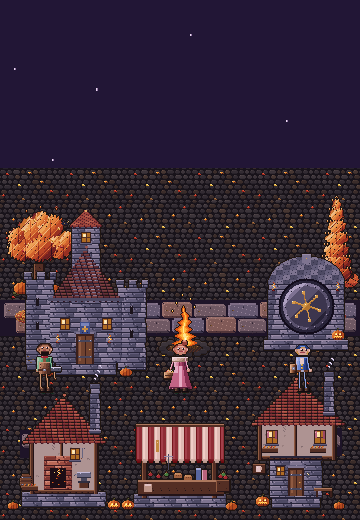
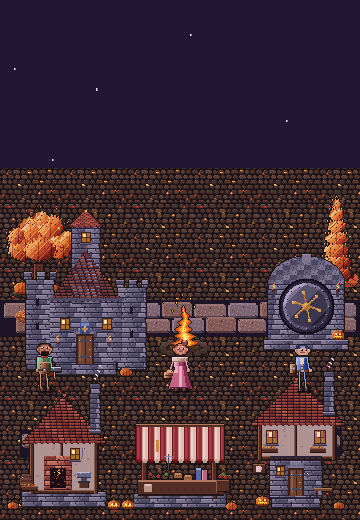
art(town): warmer dusk cobbles, theme tokens for ambience, README; regenerate town goldens

diff --git a/lib/ui/shell/home/town_ambience.dart b/lib/ui/shell/home/town_ambience.dart
@@ -2,6 +2,8 @@ import 'dart:math' as math;
 
 import 'package:flutter/material.dart';
 
+import '../../game_theme.dart';
+
 /// Autumn dusk life over the town square: falling leaves, a campfire glow
 /// that breathes, and low mist. One painter, a dozen rects and three
 /// gradients a frame. The ticker stops when motion is off, the route is
@@ -16,11 +18,11 @@ abstract final class TownAmbience {
   static const leafCount = 14;
 
   static const leafColors = <Color>[
-    Color(0xFFC43A24),
-    Color(0xFFEC8E30),
-    Color(0xFFF0C450),
-    Color(0xFF92221E),
-    Color(0xFFDE6A2C),
+    GameTheme.townLeafRed,
+    GameTheme.townLeafOrange,
+    GameTheme.townLeafGold,
+    GameTheme.townLeafMaroon,
+    GameTheme.townLeafRust,
   ];
 }
 
@@ -168,8 +170,8 @@ class _AmbiencePainter extends CustomPainter {
       canvas.drawOval(
         rect,
         Paint()
-          ..shader = const RadialGradient(
-            colors: [Color(0x40CFC0E6), Color(0x00CFC0E6)],
+          ..shader = RadialGradient(
+            colors: [GameTheme.townMist, GameTheme.townMist.withAlpha(0)],
           ).createShader(rect),
       );
     }
@@ -181,21 +183,24 @@ class _AmbiencePainter extends CustomPainter {
         0.5 +
         0.3 * math.sin(t * math.pi * 2 * 9) +
         0.2 * math.sin(t * math.pi * 2 * 23);
-    final r = fire.width * (1.5 + 0.12 * breath);
+    final r = fire.width * (2.6 + 0.15 * breath);
     final center = Offset(fire.center.dx, fire.top + fire.height * 0.62);
     final rect = Rect.fromCircle(center: center, radius: r);
-    final a = (0x30 + (0x18 * breath)).round().clamp(0, 255);
+    final a = (0x2C + (0x14 * breath)).round().clamp(0, 255);
     canvas.drawCircle(
       center,
       r,
       Paint()
         ..blendMode = BlendMode.screen
         ..shader = RadialGradient(
-          colors: [Color.fromARGB(a, 255, 150, 60), const Color(0x00FF9630)],
+          colors: [
+            GameTheme.townFireGlow.withAlpha(a),
+            GameTheme.townFireGlow.withAlpha(0),
+          ],
         ).createShader(rect),
     );
     // Two sparks climb out of the flame.
-    final spark = Paint()..color = const Color(0xFFFFD27A);
+    final spark = Paint()..color = GameTheme.townSpark;
     for (var k = 0; k < 2; k++) {
       final u = (t * (11 + k * 4) + k * 0.5) % 1.0;
       final sx = center.dx + math.sin((u + k) * math.pi * 3) * 6 + (k * 8 - 4);
@@ -211,7 +216,7 @@ class _AmbiencePainter extends CustomPainter {
 
   void _leaves(Canvas canvas, Size size, double t) {
     final paint = Paint();
-    final shade = Paint()..color = const Color(0x66200E18);
+    final shade = Paint()..color = GameTheme.townLeafShade;
     for (var i = 0; i < TownAmbience.leafCount; i++) {
       final leaf = townLeafAt(i, t, size);
       final w = leaf.wide ? 4.0 : 2.0;

diff --git a/lib/ui/game_theme.dart b/lib/ui/game_theme.dart
@@ -18,6 +18,17 @@ abstract final class GameTheme {
   static const Color panel = Color(0xFF182028);
   static const Color panelInset = Color(0xFF0F141C);
 
+  // Town autumn dusk ambience (TownAmbienceLayer).
+  static const Color townLeafRed = Color(0xFFC43A24);
+  static const Color townLeafOrange = Color(0xFFEC8E30);
+  static const Color townLeafGold = Color(0xFFF0C450);
+  static const Color townLeafMaroon = Color(0xFF92221E);
+  static const Color townLeafRust = Color(0xFFDE6A2C);
+  static const Color townLeafShade = Color(0x66200E18);
+  static const Color townMist = Color(0x40CFC0E6);
+  static const Color townFireGlow = Color(0xFFFF9630);
+  static const Color townSpark = Color(0xFFFFD27A);
+
   /// Loot border colors (bag slots, gear rows).
   static const Color rarityCommon = Color(0xFF5A5040);
   static const Color rarityUncommon = Color(0xFF70C050);

diff --git a/tool/generate_town_art.py b/tool/generate_town_art.py
@@ -1255,15 +1255,16 @@ def generate_sheet() -> Image.Image:
 
 README = """# Town assets
 
-Owned Idle Party pixel art for the out-of-dungeon town.
+Owned Idle Party pixel art for the out-of-dungeon town. Target look:
+autumn dusk (`docs/art/TOWN_AUTUMN_DUSK.md`, owner pick B).
 
 ## Provenance / license
 
 | Field | Value |
 |-------|--------|
 | Author | Idle Party (this repository) |
-| Tool | `tool/generate_town_art.py` |
-| Method | Hand-placed pixel materials (stone courses, tile rows, cloth folds, chibi townsfolk). No foreign packs. |
+| Tool | `tool/generate_town_art.py` + `tool/town_autumn_art.py` + `tool/town_life_art.py` |
+| Method | Hand-placed pixel materials (stone courses, tile rows, cloth folds, leaves, pumpkins, chibi townsfolk). No foreign packs. |
 | External packs | None |
 | License | Same as the rest of `assets/custom/` — original game art |
 
@@ -1271,6 +1272,11 @@ Three painted facade tiers (timber / plaster or ashlar / banners). AL10
 pennants and AL20 lanterns are owned pixel strips. Townsfolk frames share
 one sheet. `TownFolkSheet` in Dart uses the same 96×112 cells and
 draws them beside the party with nearest-neighbor.
+
+Every sprite except the sky, the square, and the UI plates goes through
+`town_autumn_art.dusk_grade`: a mild violet shade that leaves windows,
+fire, and jack-o-lantern faces lit. Falling leaves, the campfire glow and
+low mist are painted live by `TownAmbienceLayer` (Dart), not baked.
 
 Deterministic: no RNG. Regenerate:
 
@@ -1283,10 +1289,11 @@ python3 tool/generate_town_art.py
 | Rule | Choice |
 |------|--------|
 | Ink (32, 22, 18), 1 px contour | Same warm ink as the heroes |
-| Light | Upper-left, in clusters on each stone, tile, and fold |
-| Ground | Soft lawn, 480×960, seamless. Cobbles and flowers sit on the paths |
-| Roofs | Individual tiles. Guild slate, houses terracotta, market a folded awning |
-| Windows | Amber glass, wood mullions |
+| Light | Upper-left on materials; warm point lights (windows, fire, lanterns) |
+| Sky | Purple to ember bands, far skyline pinned to the square's top edge |
+| Ground | Dark dusk cobbles, 64×64, seamless, fallen leaves |
+| Roofs | Individual tiles. Dark red tile; guild tower spire |
+| Windows | Amber glass, wood mullions, kept lit by the grade |
 | People | Smith, courier, and gardener. Idle + 4 walk frames |
 | Scale | `FilterQuality.none`. Folk are authored for the 48×56 yard |
 
@@ -1294,20 +1301,25 @@ python3 tool/generate_town_art.py
 
 | File | Use |
 |------|-----|
-| backdrop.png | Banded sky, clouds, ridge, distant roof |
-| ground.png | Soft lawn, 480×960, edges meet |
-| path.png | Cobble street, 360×36, flower beds at the ends |
+| backdrop.png | Dusk sky, clouds, far skyline, autumn crowns (bottom-aligned) |
+| ground.png | Dusk cobbles with leaves, 64×64, edges meet |
+| path.png / path_b.png | Cobble street, 360×36, leaf drifts at the ends |
 | approach.png | Cobble spur, 36×192, mortar meets at the wrap |
 | alert.png | Claim spark on guild and vault |
-| tree_round.png / tree_tall.png | Leaf clumps, blossoms, fruit |
-| flowers.png / shrub.png / wild.png / herbs.png | Four different plantings |
-| meadow.png / thicket.png / scuff.png | Unique lawn clumps, placed once |
-| worn.png | Small worn patch for a doorway |
-| contact.png | Dark grass under a building |
+| tree_round.png / tree_tall.png | Autumn crowns, gold leaves, fruit |
+| flowers.png | Pumpkin patch with a jack-o-lantern |
+| shrub.png | Rust-red autumn bush |
+| wild.png | Corn sheaf |
+| herbs.png | Hay bale and apple basket |
+| meadow.png | Leaf pile, pumpkins, basket |
+| thicket.png | Iron lamp post in a red bramble |
+| scuff.png | Leaves blown across the stones |
+| worn.png | Small cobble step for a doorway |
+| contact.png | Shade under a wall |
 | folk.png | 3 people × 5 frames, 96×112 cells |
-| well.png | Stone well |
+| campfire.png | Stone-ring campfire at the square's center |
 | forge / market / inn / guild `_t0..t2` | Facades |
-| vault_shut.png / vault_open.png | Ironbound chest on a plinth |
+| vault_shut.png / vault_open.png | Round iron vault door in a stone arch |
 """
 
 

diff --git a/tool/town_autumn_art.py b/tool/town_autumn_art.py
@@ -18,24 +18,24 @@ Pix = life.Pix
 
 # Cool dusk cobbles. Dark → light. Light still comes from the upper left.
 COBBLE = [
-    (30, 25, 32),
-    (40, 34, 42),
-    (50, 43, 50),
-    (60, 52, 58),
-    (72, 62, 66),
-    (86, 74, 76),
-    (102, 88, 88),
+    (40, 28, 30),
+    (54, 38, 38),
+    (70, 50, 46),
+    (86, 62, 54),
+    (104, 76, 64),
+    (124, 92, 76),
+    (146, 110, 90),
 ]
 COBBLE_WARM = [
-    (34, 26, 28),
-    (46, 35, 36),
-    (58, 44, 42),
-    (70, 54, 50),
-    (84, 64, 58),
-    (100, 78, 68),
-    (118, 92, 80),
+    (46, 28, 26),
+    (62, 38, 32),
+    (80, 50, 40),
+    (98, 62, 48),
+    (118, 76, 58),
+    (140, 92, 70),
+    (162, 112, 84),
 ]
-MORTAR = (24, 19, 26)
+MORTAR = (30, 20, 24)
 
 LEAF_RED = [(92, 20, 24), (146, 34, 30), (196, 58, 36), (228, 96, 60)]
 LEAF_ORANGE = [(140, 56, 20), (198, 96, 30), (236, 142, 48), (252, 190, 96)]
@@ -273,6 +273,7 @@ def ground() -> Image.Image:
     spots = (
         (6, 5), (40, 13), (22, 30), (55, 38), (12, 50), (34, 58), (50, 22),
         (28, 4), (60, 54), (2, 26), (44, 46), (18, 16),
+        (8, 38), (48, 2), (30, 44), (58, 30), (38, 24),
     )
     for k, (lx, ly) in enumerate(spots):
         leaf(pix, lx, ly, (0, 1, 3, 0, 1, 2)[k % 6] + 4 * (k % 2), wrap=True)

diff --git a/tool/town_life_art.py b/tool/town_life_art.py
@@ -52,20 +52,20 @@ DIRT = [
     (168, 130, 96),
 ]
 STONE = [
-    (50, 42, 44),
-    (70, 60, 60),
-    (92, 80, 78),
-    (116, 102, 96),
-    (140, 124, 114),
-    (164, 148, 134),
+    (66, 50, 46),
+    (90, 70, 62),
+    (114, 90, 78),
+    (138, 112, 96),
+    (162, 134, 114),
+    (184, 158, 134),
 ]
 STONE_GREY = [
-    (44, 44, 52),
-    (62, 62, 72),
-    (84, 82, 92),
-    (108, 104, 112),
-    (132, 126, 132),
-    (156, 150, 152),
+    (60, 52, 54),
+    (82, 72, 72),
+    (106, 94, 92),
+    (130, 116, 112),
+    (154, 140, 132),
+    (176, 162, 152),
 ]
 MOSS = [
     (52, 44, 26),

diff --git a/assets/custom/town/README.md b/assets/custom/town/README.md
@@ -1,14 +1,15 @@
 # Town assets
 
-Owned Idle Party pixel art for the out-of-dungeon town.
+Owned Idle Party pixel art for the out-of-dungeon town. Target look:
+autumn dusk (`docs/art/TOWN_AUTUMN_DUSK.md`, owner pick B).
 
 ## Provenance / license
 
 | Field | Value |
 |-------|--------|
 | Author | Idle Party (this repository) |
-| Tool | `tool/generate_town_art.py` |
-| Method | Hand-placed pixel materials (stone courses, tile rows, cloth folds, chibi townsfolk). No foreign packs. |
+| Tool | `tool/generate_town_art.py` + `tool/town_autumn_art.py` + `tool/town_life_art.py` |
+| Method | Hand-placed pixel materials (stone courses, tile rows, cloth folds, leaves, pumpkins, chibi townsfolk). No foreign packs. |
 | External packs | None |
 | License | Same as the rest of `assets/custom/` — original game art |
 
@@ -16,6 +17,11 @@ Three painted facade tiers (timber / plaster or ashlar / banners). AL10
 pennants and AL20 lanterns are owned pixel strips. Townsfolk frames share
 one sheet. `TownFolkSheet` in Dart uses the same 96×112 cells and
 draws them beside the party with nearest-neighbor.
+
+Every sprite except the sky, the square, and the UI plates goes through
+`town_autumn_art.dusk_grade`: a mild violet shade that leaves windows,
+fire, and jack-o-lantern faces lit. Falling leaves, the campfire glow and
+low mist are painted live by `TownAmbienceLayer` (Dart), not baked.
 
 Deterministic: no RNG. Regenerate:
 
@@ -28,10 +34,11 @@ python3 tool/generate_town_art.py
 | Rule | Choice |
 |------|--------|
 | Ink (32, 22, 18), 1 px contour | Same warm ink as the heroes |
-| Light | Upper-left, in clusters on each stone, tile, and fold |
-| Ground | Soft lawn, 480×960, seamless. Cobbles and flowers sit on the paths |
-| Roofs | Individual tiles. Guild slate, houses terracotta, market a folded awning |
-| Windows | Amber glass, wood mullions |
+| Light | Upper-left on materials; warm point lights (windows, fire, lanterns) |
+| Sky | Purple to ember bands, far skyline pinned to the square's top edge |
+| Ground | Dark dusk cobbles, 64×64, seamless, fallen leaves |
+| Roofs | Individual tiles. Dark red tile; guild tower spire |
+| Windows | Amber glass, wood mullions, kept lit by the grade |
 | People | Smith, courier, and gardener. Idle + 4 walk frames |
 | Scale | `FilterQuality.none`. Folk are authored for the 48×56 yard |
 
@@ -39,17 +46,22 @@ python3 tool/generate_town_art.py
 
 | File | Use |
 |------|-----|
-| backdrop.png | Banded sky, clouds, ridge, distant roof |
-| ground.png | Soft lawn, 480×960, edges meet |
-| path.png | Cobble street, 360×36, flower beds at the ends |
+| backdrop.png | Dusk sky, clouds, far skyline, autumn crowns (bottom-aligned) |
+| ground.png | Dusk cobbles with leaves, 64×64, edges meet |
+| path.png / path_b.png | Cobble street, 360×36, leaf drifts at the ends |
 | approach.png | Cobble spur, 36×192, mortar meets at the wrap |
 | alert.png | Claim spark on guild and vault |
-| tree_round.png / tree_tall.png | Leaf clumps, blossoms, fruit |
-| flowers.png / shrub.png / wild.png / herbs.png | Four different plantings |
-| meadow.png / thicket.png / scuff.png | Unique lawn clumps, placed once |
-| worn.png | Small worn patch for a doorway |
-| contact.png | Dark grass under a building |
+| tree_round.png / tree_tall.png | Autumn crowns, gold leaves, fruit |
+| flowers.png | Pumpkin patch with a jack-o-lantern |
+| shrub.png | Rust-red autumn bush |
+| wild.png | Corn sheaf |
+| herbs.png | Hay bale and apple basket |
+| meadow.png | Leaf pile, pumpkins, basket |
+| thicket.png | Iron lamp post in a red bramble |
+| scuff.png | Leaves blown across the stones |
+| worn.png | Small cobble step for a doorway |
+| contact.png | Shade under a wall |
 | folk.png | 3 people × 5 frames, 96×112 cells |
-| well.png | Stone well |
+| campfire.png | Stone-ring campfire at the square's center |
 | forge / market / inn / guild `_t0..t2` | Facades |
-| vault_shut.png / vault_open.png | Ironbound chest on a plinth |
+| vault_shut.png / vault_open.png | Round iron vault door in a stone arch |
